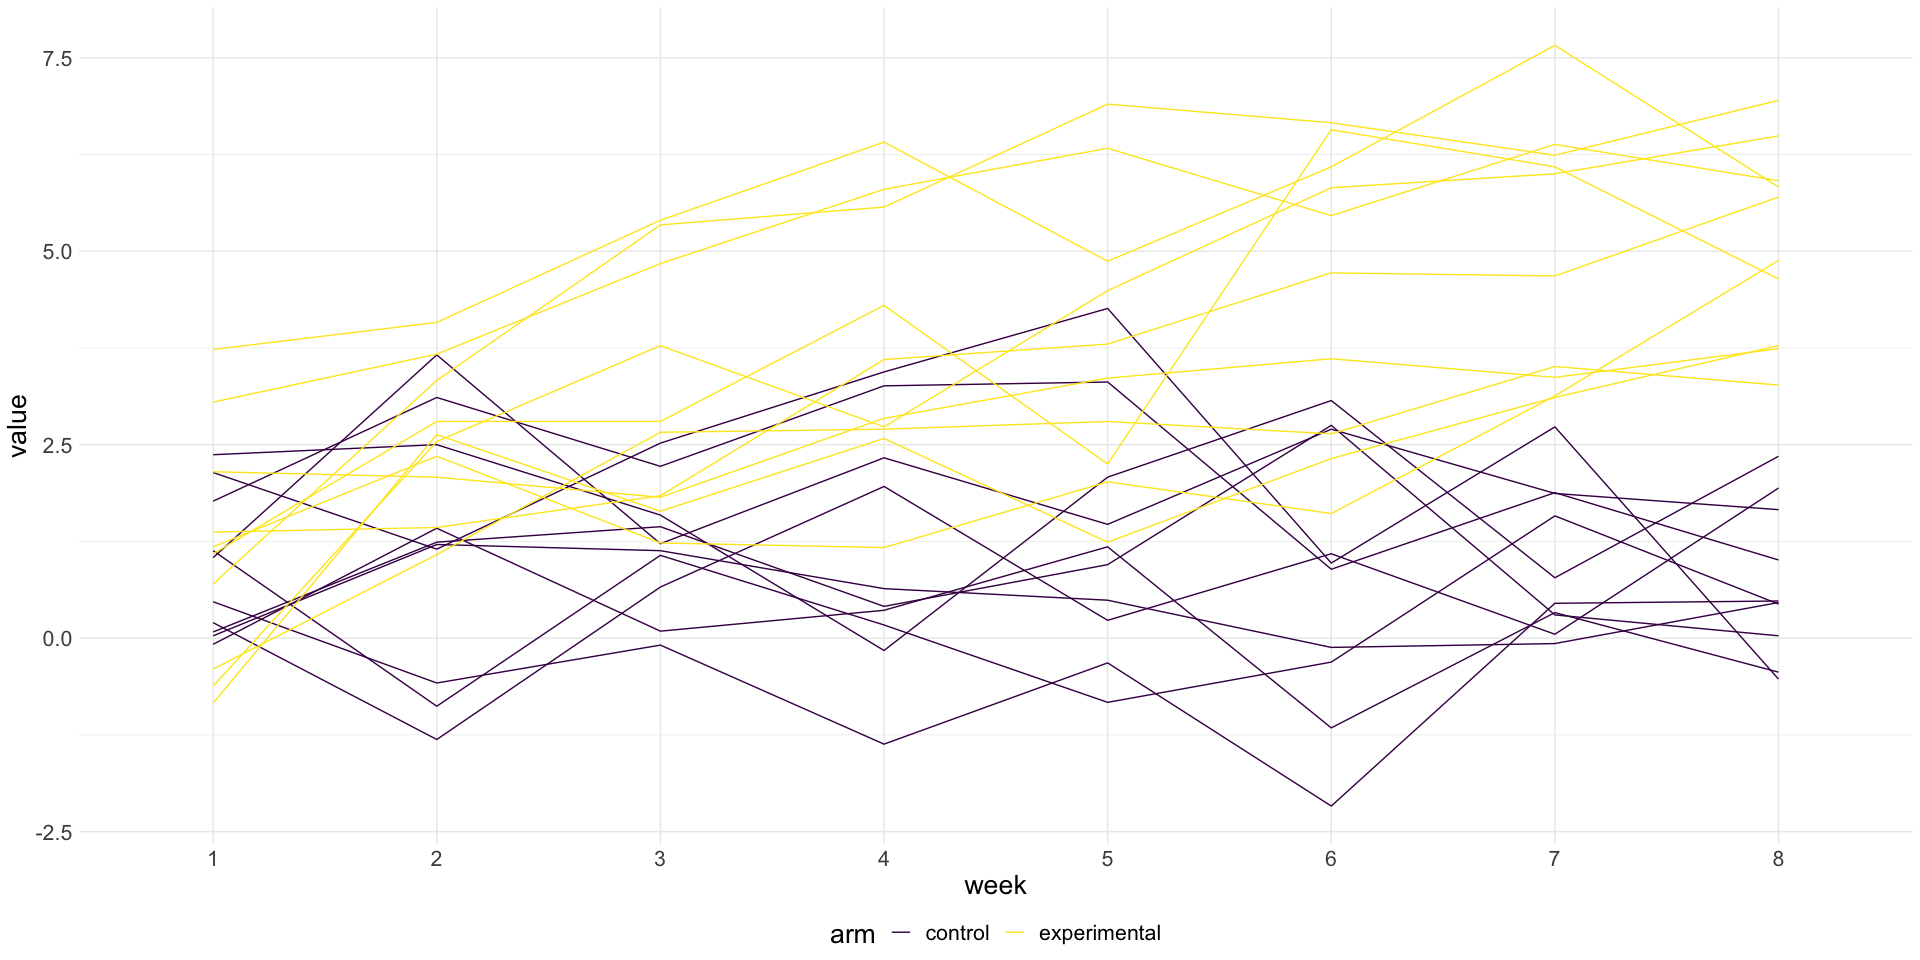
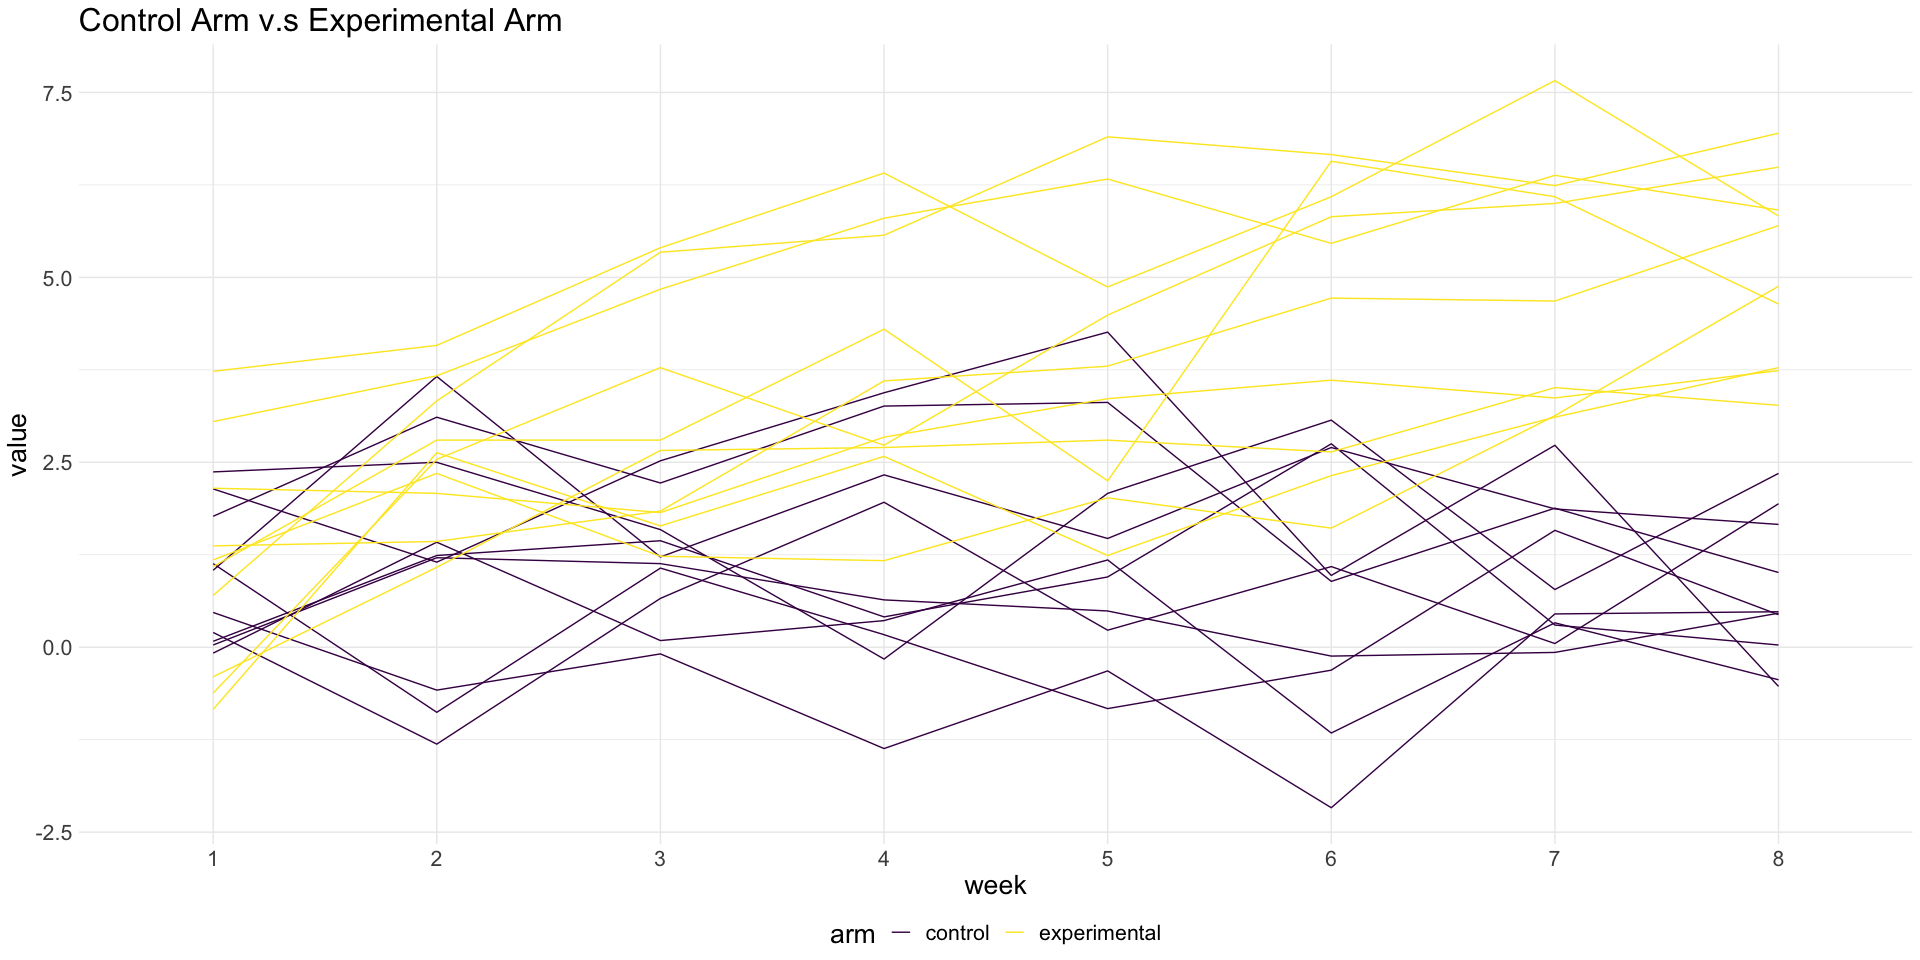
add title to p2 plot

diff --git a/p8105_hw5_xl3048.md b/p8105_hw5_xl3048.md
@@ -146,7 +146,8 @@ path_longer_df<-path_df %>%
 
 p<-ggplot(data = path_longer_df, aes(x = week, y = value, group = arm_id, color = arm))+
   geom_line()+
-  theme(text = element_text(size=20))
+  theme(text = element_text(size=20))+
+  labs(title = "Control Arm v.s Experimental Arm")
 p
 ```
 
